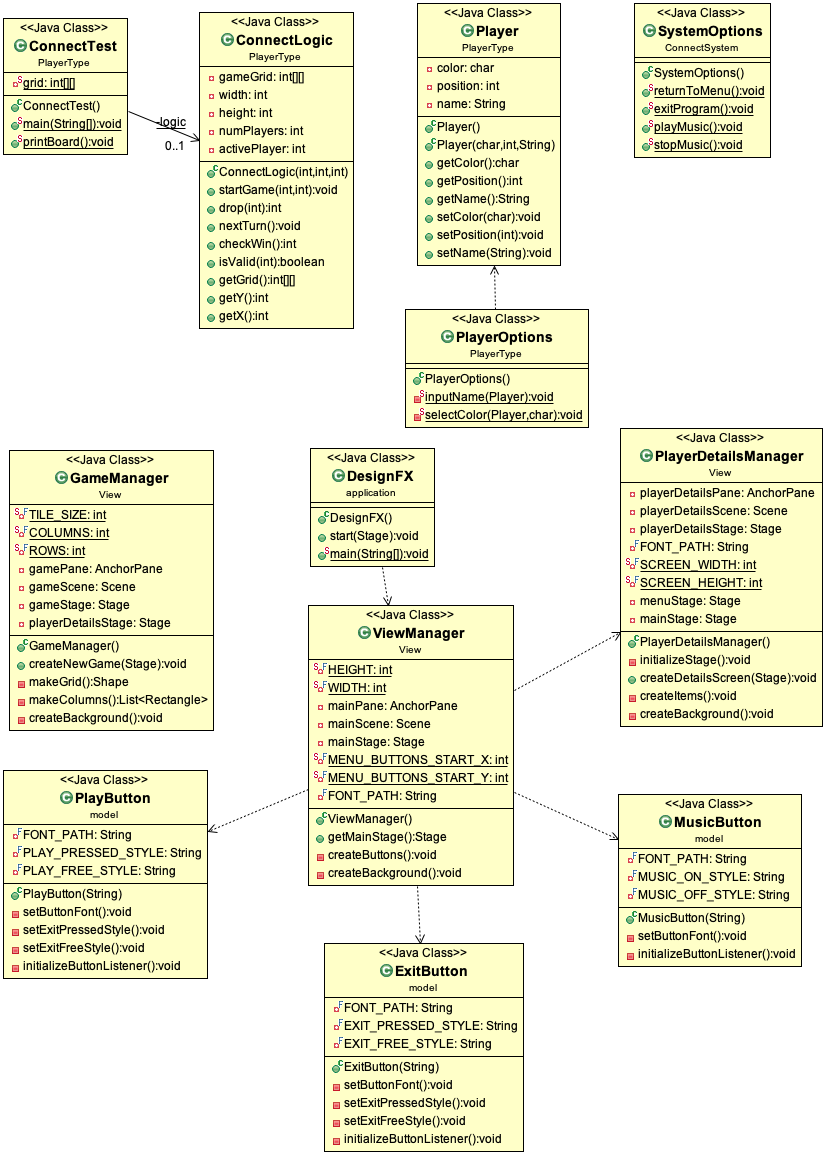
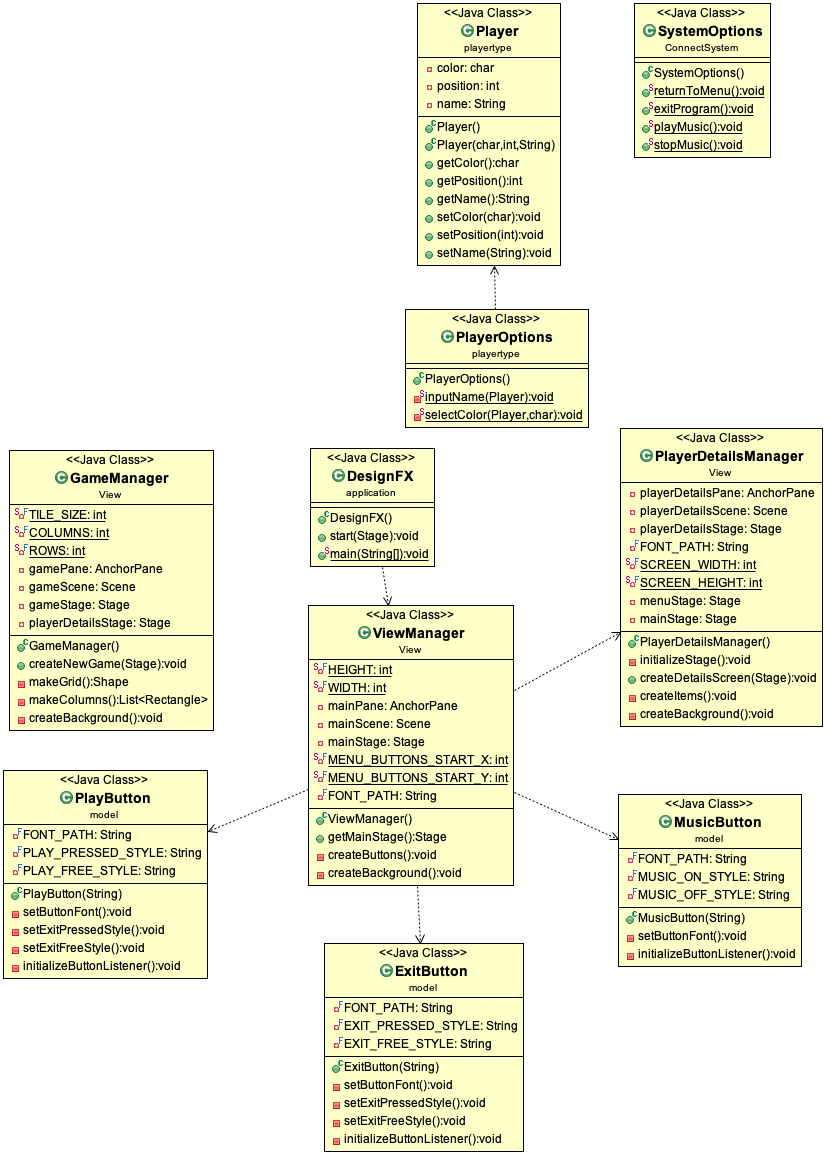
Adherance to Checkstyle

Changed region(s): [[0.0, 0.0, 0.454, 0.3117], [0.5751, 0.2805, 0.6356, 0.3117], [0.5751, 0.0312, 0.6053, 0.0623]]

diff --git a/newmaster/application/DesignFX.java b/newmaster/application/DesignFX.java
@@ -1,6 +1,5 @@
 package application;
 
-	
 import View.ViewManager;
 import javafx.application.Application;
 import javafx.stage.Stage;
@@ -17,13 +16,13 @@ public class DesignFX extends Application {
 			primaryStage = manager.getMainStage();
 			primaryStage.show();
 			
-		} catch(Exception e) {
+		} catch (Exception e) { 
 			e.printStackTrace();
 		}
 	}
 	
 	public static void main(String[] args) {
-		launch(args);
+	  launch(args);
 	}
 }
 

diff --git a/newmaster/model/ExitButton.java b/newmaster/model/ExitButton.java
@@ -18,6 +18,7 @@ public class ExitButton extends Button{
 //		private final String MUSIC_PRESSED_STYLE = "-fx-background-color: transparent; -fx-background-image: url('/model/resources/buttonX.png');";
 //		private final String MUSIC_FREE_STYLE = "-fx-background-color: transparent; -fx-background-image: url('/model/resources/buttonX.png');";
 //		
+		
 		public ExitButton(String text) {
 			setText(text);
 			setButtonFont();

diff --git a/newmaster/model/PlayButton.java b/newmaster/model/PlayButton.java
@@ -18,6 +18,7 @@ public class PlayButton extends Button{
 //		private final String MUSIC_PRESSED_STYLE = "-fx-background-color: transparent; -fx-background-image: url('/model/resources/buttonX.png');";
 //		private final String MUSIC_FREE_STYLE = "-fx-background-color: transparent; -fx-background-image: url('/model/resources/buttonX.png');";
 //		
+		
 		public PlayButton(String text) {
 			setText(text);
 			setButtonFont();

diff --git a/newmaster/playertype/Player.java b/newmaster/playertype/Player.java
@@ -7,7 +7,7 @@ Each player has an order in which his turn will be.
 @version September 2018
 *****************************************************************/
 
-package PlayerType;
+package playertype;
 
 public class Player {
   private char color; //The color of the player's chip

diff --git a/newmaster/gamelogic/ConnectTest.java b/newmaster/gamelogic/ConnectTest.java
@@ -1,9 +1,10 @@
 package gamelogic;
-import java.util.*;
 
-public class ConnectTest{
+import java.util.Scanner;
+
+public class ConnectTest {
 	private static ConnectLogic logic;
-	
+
 	private static int[][] grid;
 
 	public static void main(String[] args){

diff --git a/newmaster/connectsystem/SystemOptions.java b/newmaster/connectsystem/SystemOptions.java
@@ -5,7 +5,7 @@ These are system functions to use during or before a game
 @version September 2018
 *****************************************************************/
 
-package ConnectSystem;
+package connectsystem;
 
 public class SystemOptions {
 

diff --git a/newmaster/playertype/PlayerOptions.java b/newmaster/playertype/PlayerOptions.java
@@ -6,7 +6,7 @@ Edits characteristics for each player
 @version September 2018
 *****************************************************************/
 
-package PlayerType;
+package playertype;
 
 import java.util.Scanner;
 
